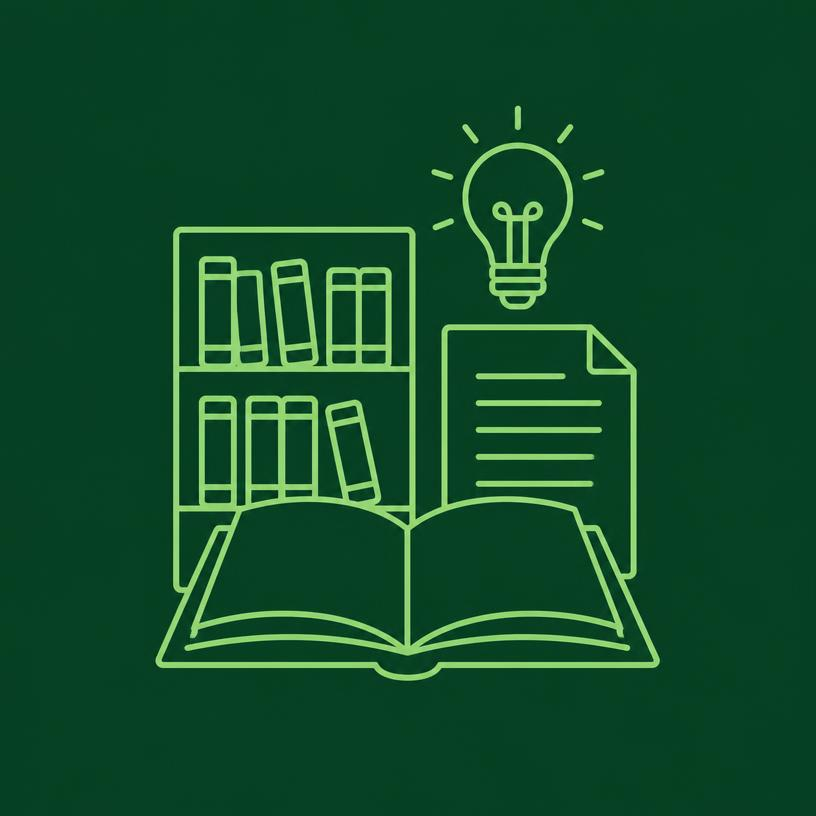
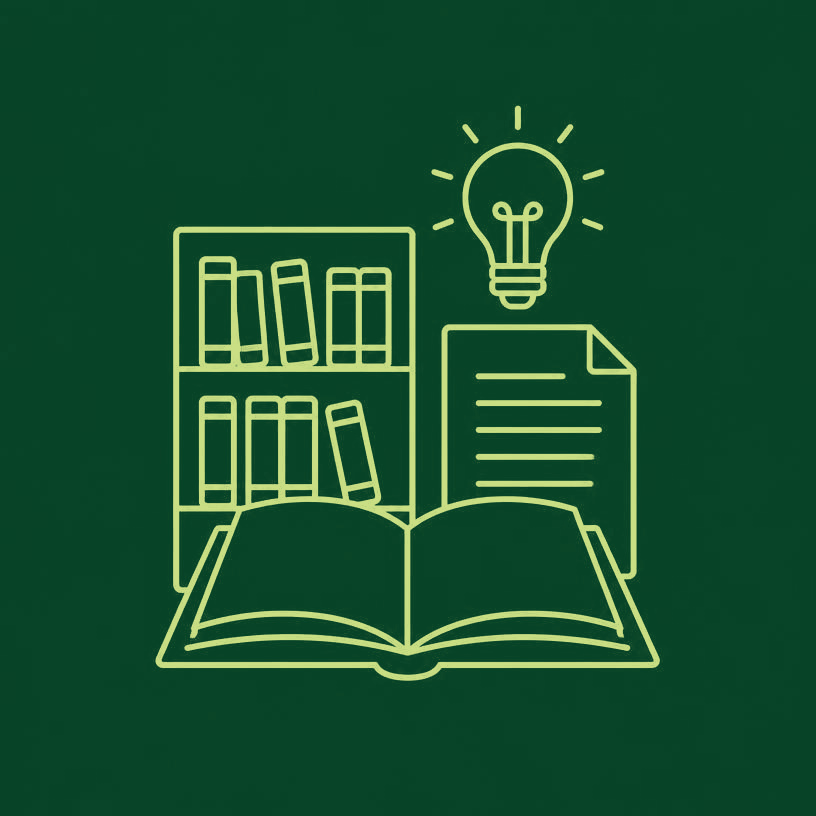
Changes

Changed region(s): [[0.1838, 0.1225, 0.8272, 0.8578]]

diff --git a/src/components/SiteFooter.tsx b/src/components/SiteFooter.tsx
@@ -23,6 +23,7 @@ const pages: FooterLink[] = [
 
 const services: FooterLink[] = [
   { to: "/konyveles", key: "service.bookkeeping" },
+  { to: "/ev-konyveles", key: "service.soleTrader" },
   { to: "/adotanacsadas", key: "service.taxAdvisory" },
   { to: "/fintech-es-bi", key: "service.fintechBi" },
   { to: "/kontrolling", key: "service.controlling" },
@@ -30,6 +31,7 @@ const services: FooterLink[] = [
   { to: "/konyvvizsgalat", key: "service.statutoryAudit" },
   { to: "/konyveloiroda-audit", key: "service.firmAudit" },
   { to: "/digitalis-idomegtakaritasi-audit", key: "service.timeAudit" },
+  { to: "/oktatas", key: "nav.training" },
 ];
 
 const legal: FooterLink[] = [

diff --git a/roadmap.md b/roadmap.md
@@ -10,3 +10,6 @@
 - [x] Listaoldalak, nyelvváltás, sitemap, képkiszolgáló végpont
 - [x] Typecheck
 - [ ] Böngészős próba: admin oldal megnyitása, tartalomjegyzék, próba-kalkulátor feltöltés
+- [x] Tudástár kategóriakép színének egységesítése a többi kategóriaképpel
+- [x] EV Könyvelés és Oktatás hozzáadása a lábléc Szolgáltatások listájához
+- [ ] DEMO licencfolyamat későbbi megvalósítása külön statisztikával és DEMO-jelölt e-mailekkel
